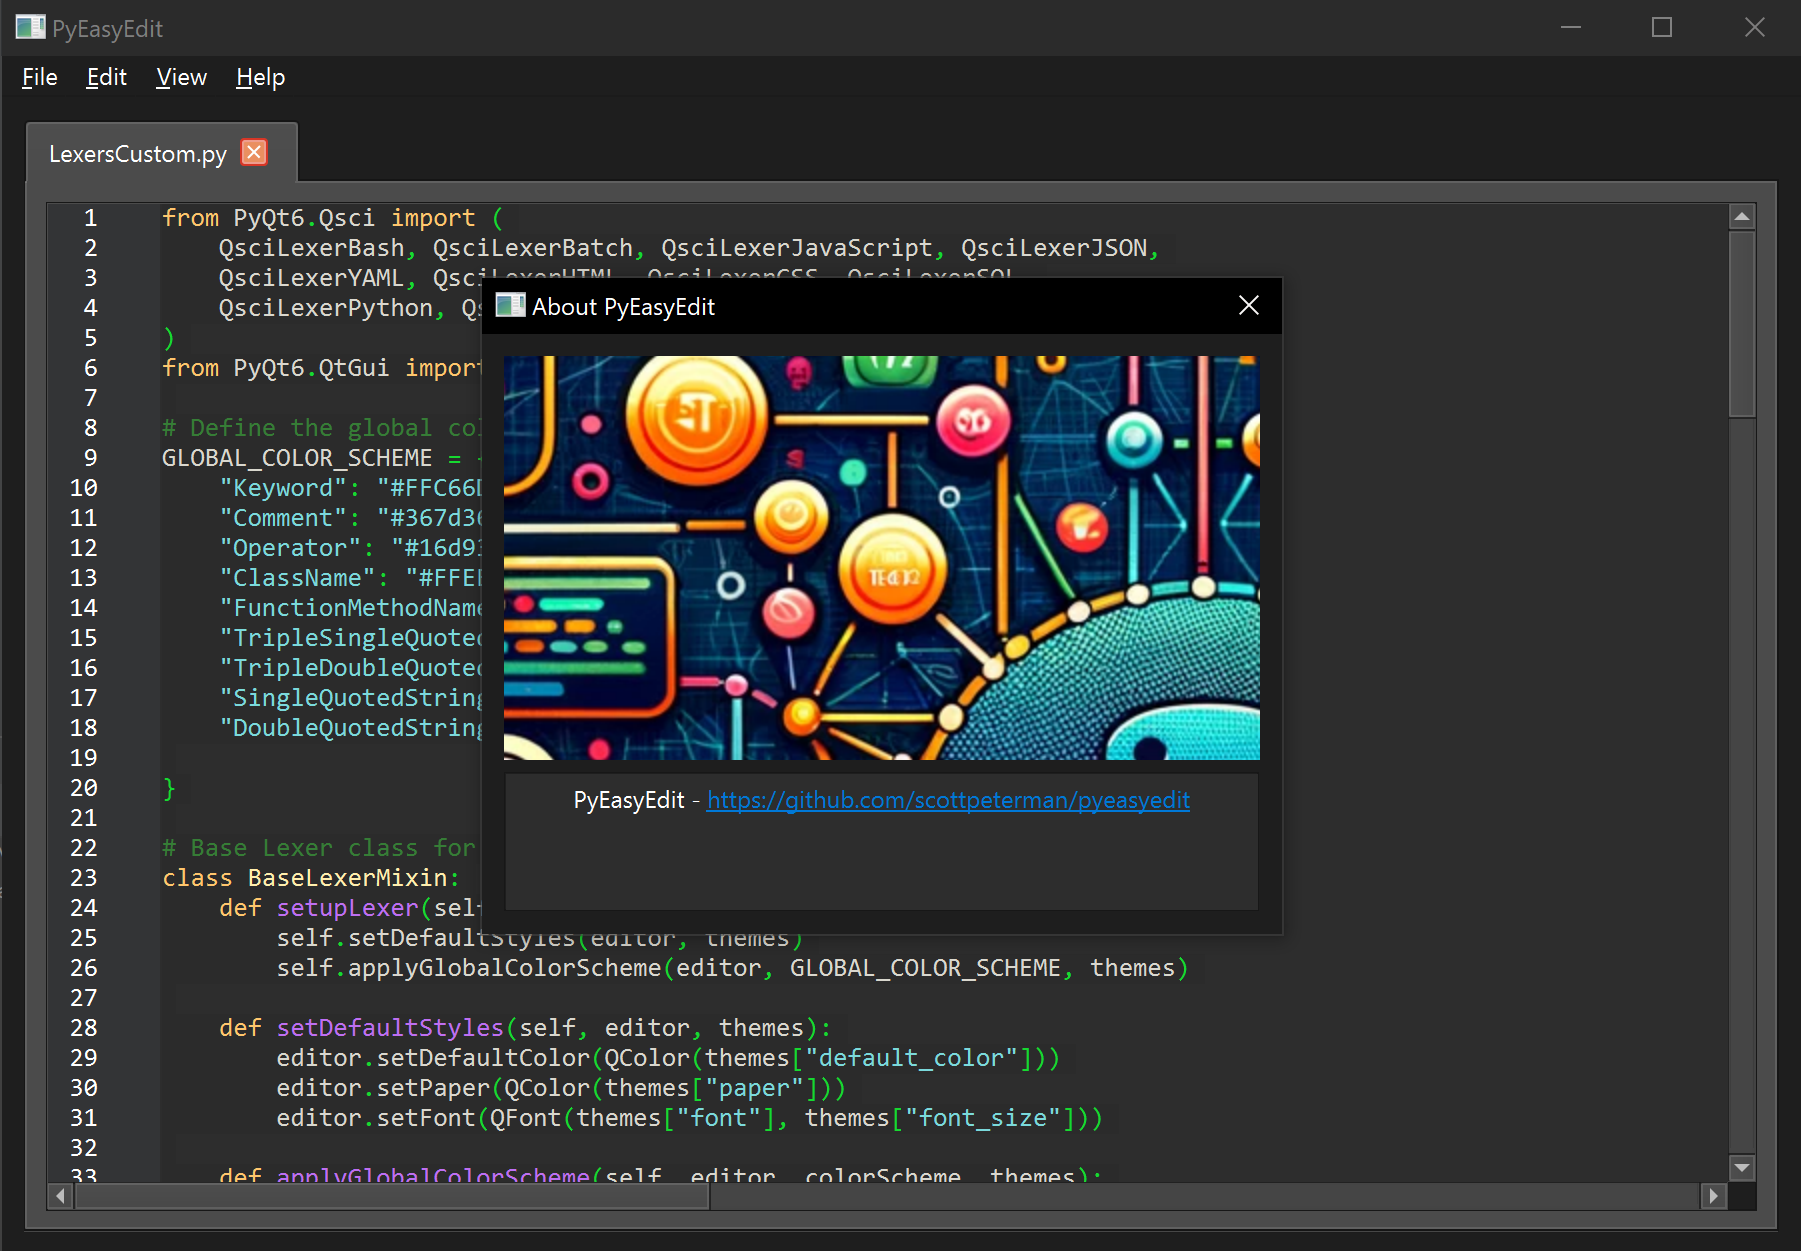
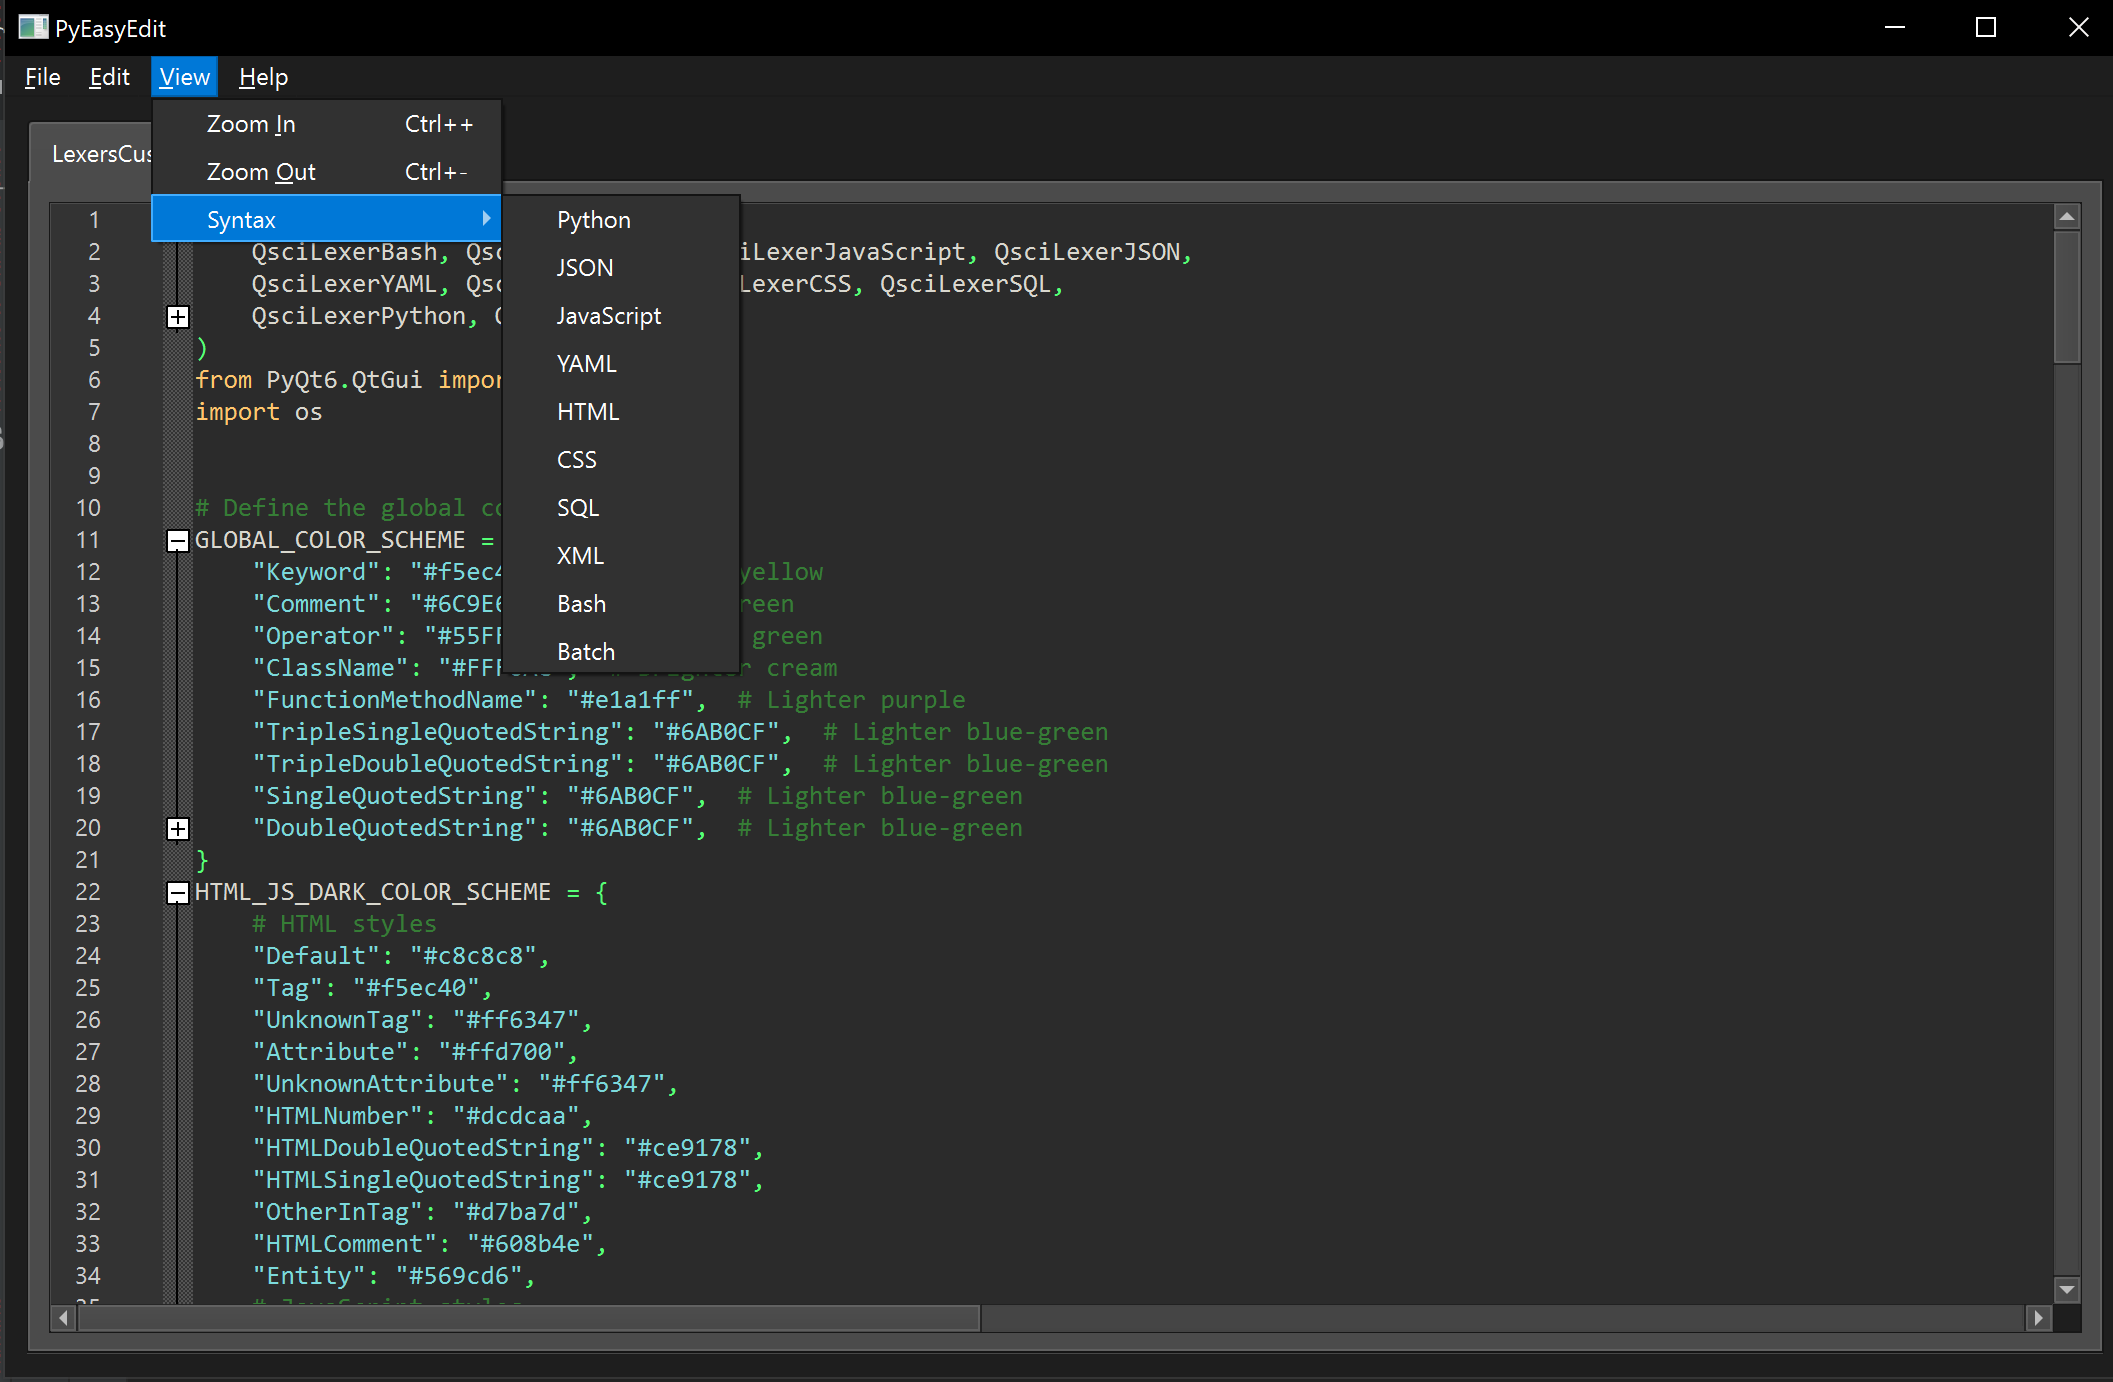
updated jedi support, added code folding

diff --git a/setup.py b/setup.py
@@ -2,7 +2,7 @@ from setuptools import setup, find_packages
 
 setup(
     name="pyeasyedit",
-    version="0.1.15",
+    version="0.1.17",
     description="A PyQt6 multi-tabbed editor based on QScintilla, includes limited IDE functions via Jedi",
     long_description=open('README.md').read(),
     long_description_content_type="text/markdown",

diff --git a/README.md b/README.md
@@ -10,7 +10,8 @@ PyEasyEdit is a lightweight, feature-rich text editor built with PyQt6 and QScin
 
 - **Syntax Highlighting**: Supports syntax coloring for Python, JavaScript, HTML, CSS, and more, making code easier to read and write.
 - **Auto Completion**: Source code auto-completion
-- **Jedi Support**: Auto-completion now includes jedi inspection
+- **Code Folding**: Now you can collapse blocks of code
+- **Jedi Support**: Auto-completion now includes improved jedi inspection (Python only)
 - **Tab to space conversion**: Critical for python
 - **File Management**: Open, edit, and save files with an intuitive interface. Recent files are tracked for quick access.
 - **Search and Replace**: Powerful search and replace functionality to easily modify your documents.
